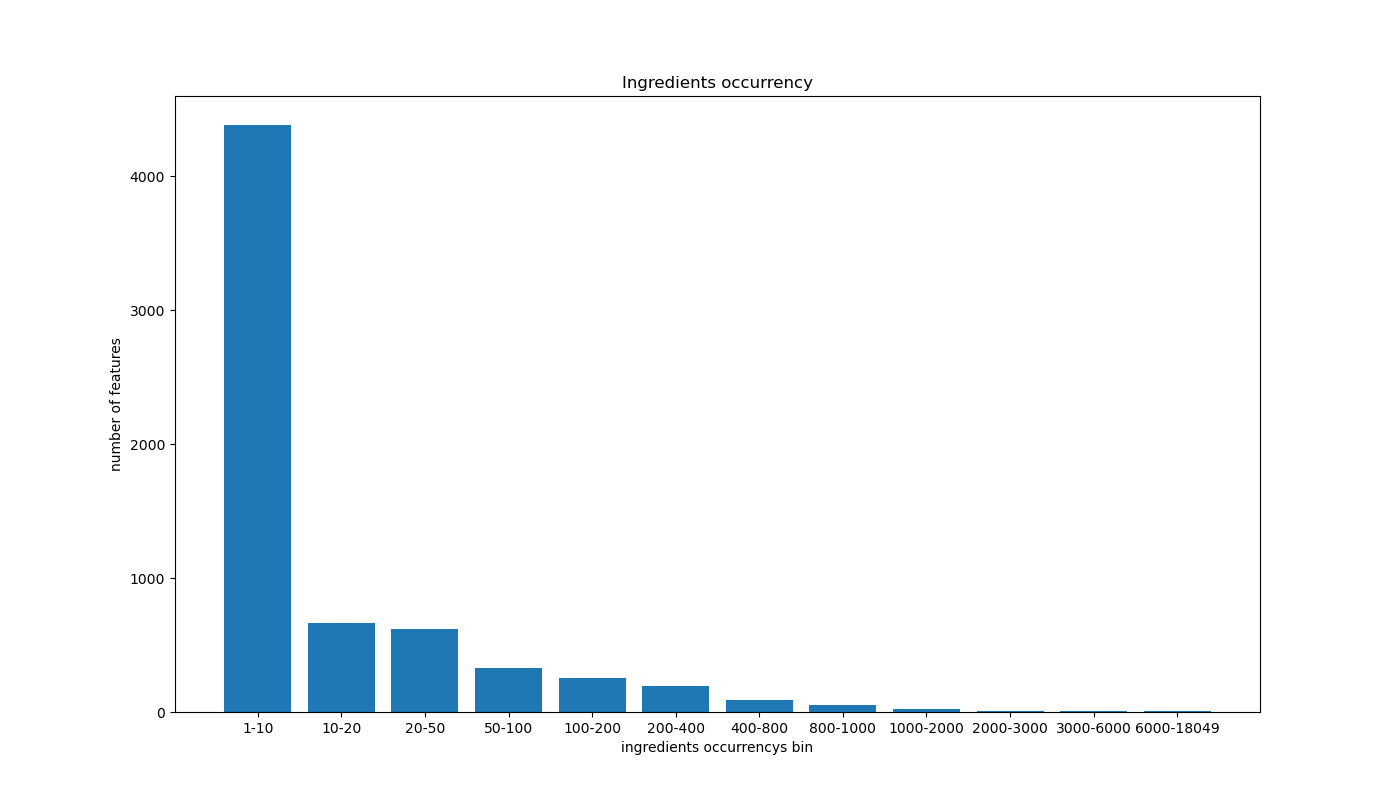
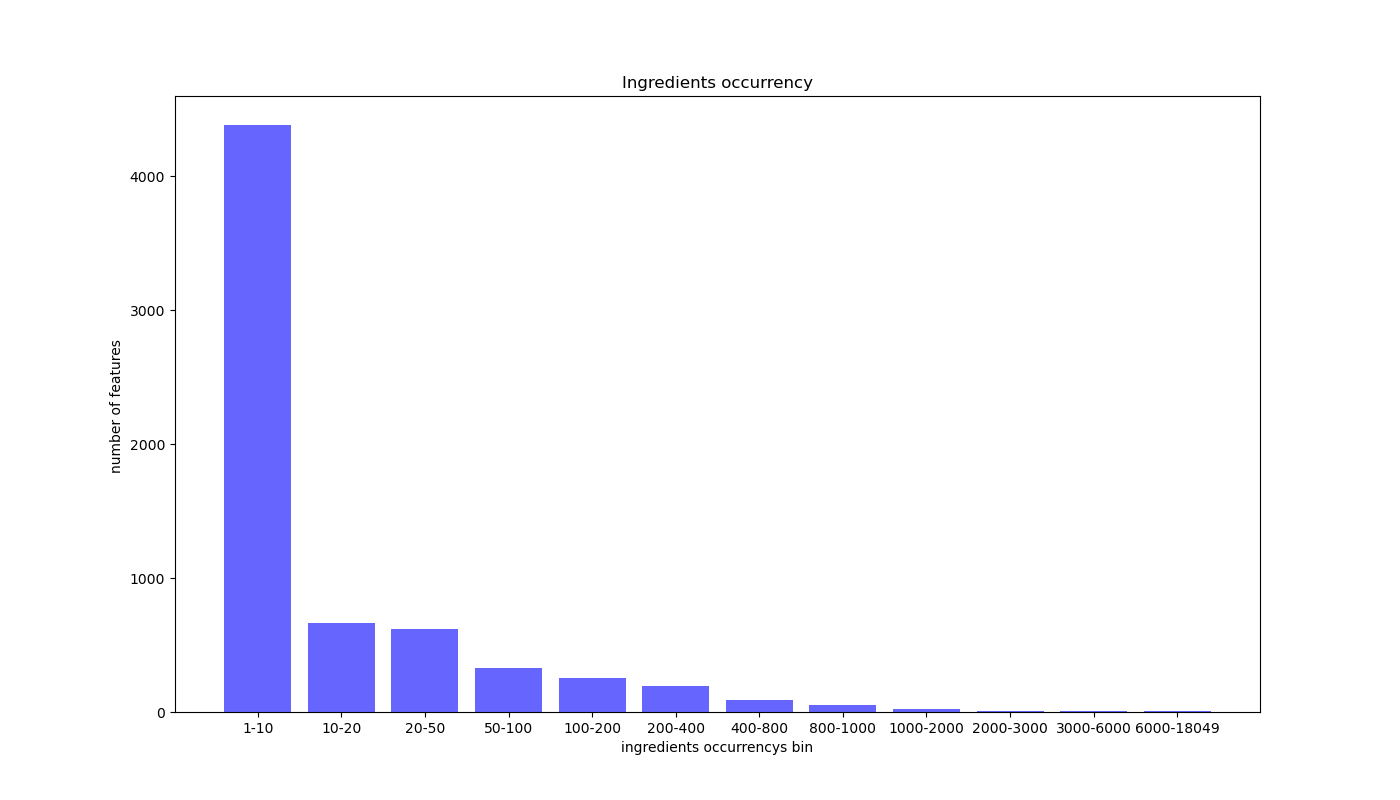
eda bar charts and charts images

Changed region(s): [[0.1536, 0.1562, 0.6757, 0.9062], [0.0614, 0.4375, 0.0921, 0.5938]]

diff --git a/eda.py b/eda.py
@@ -63,10 +63,20 @@ px = 1/plt.rcParams['figure.dpi']  # pixel in inches
 
 fig, ax = plt.subplots(figsize=(1400*px, 800*px))
 
-ax.bar(labels, counts)
+ax.bar(labels, counts,color = (0,0,1, 0.6))
 
 ax.set_title("Ingredients occurrency")
-ax.set_ylabel("number of features")
+ax.set_ylabel("number of features ")
+ax.set_xlabel("ingredients occurrencys bin")
+
+plt.show()
+
+fig, ax = plt.subplots(figsize=(1400*px, 800*px))
+
+ax.bar(labels, np.log(counts),color = (1,0,0, 0.6))
+
+ax.set_title("Ingredients occurrency")
+ax.set_ylabel("number of features (log scale)")
 ax.set_xlabel("ingredients occurrencys bin")
 
 plt.show()
